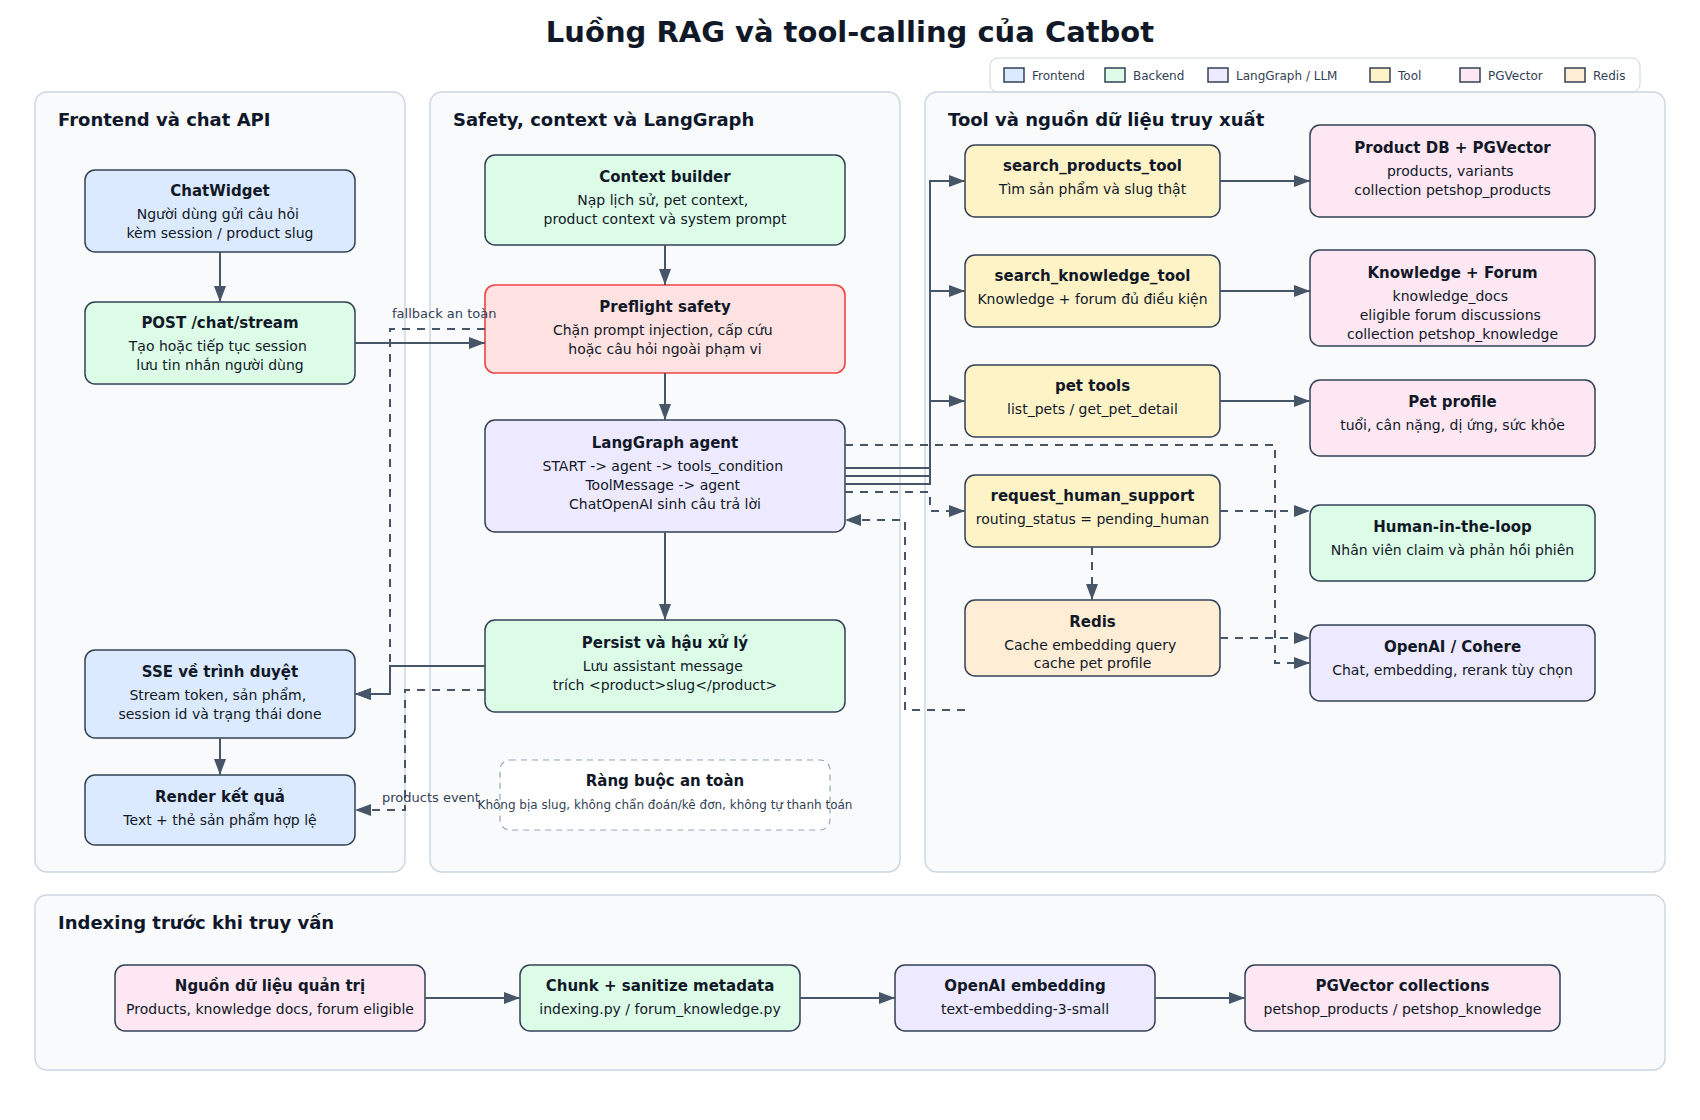
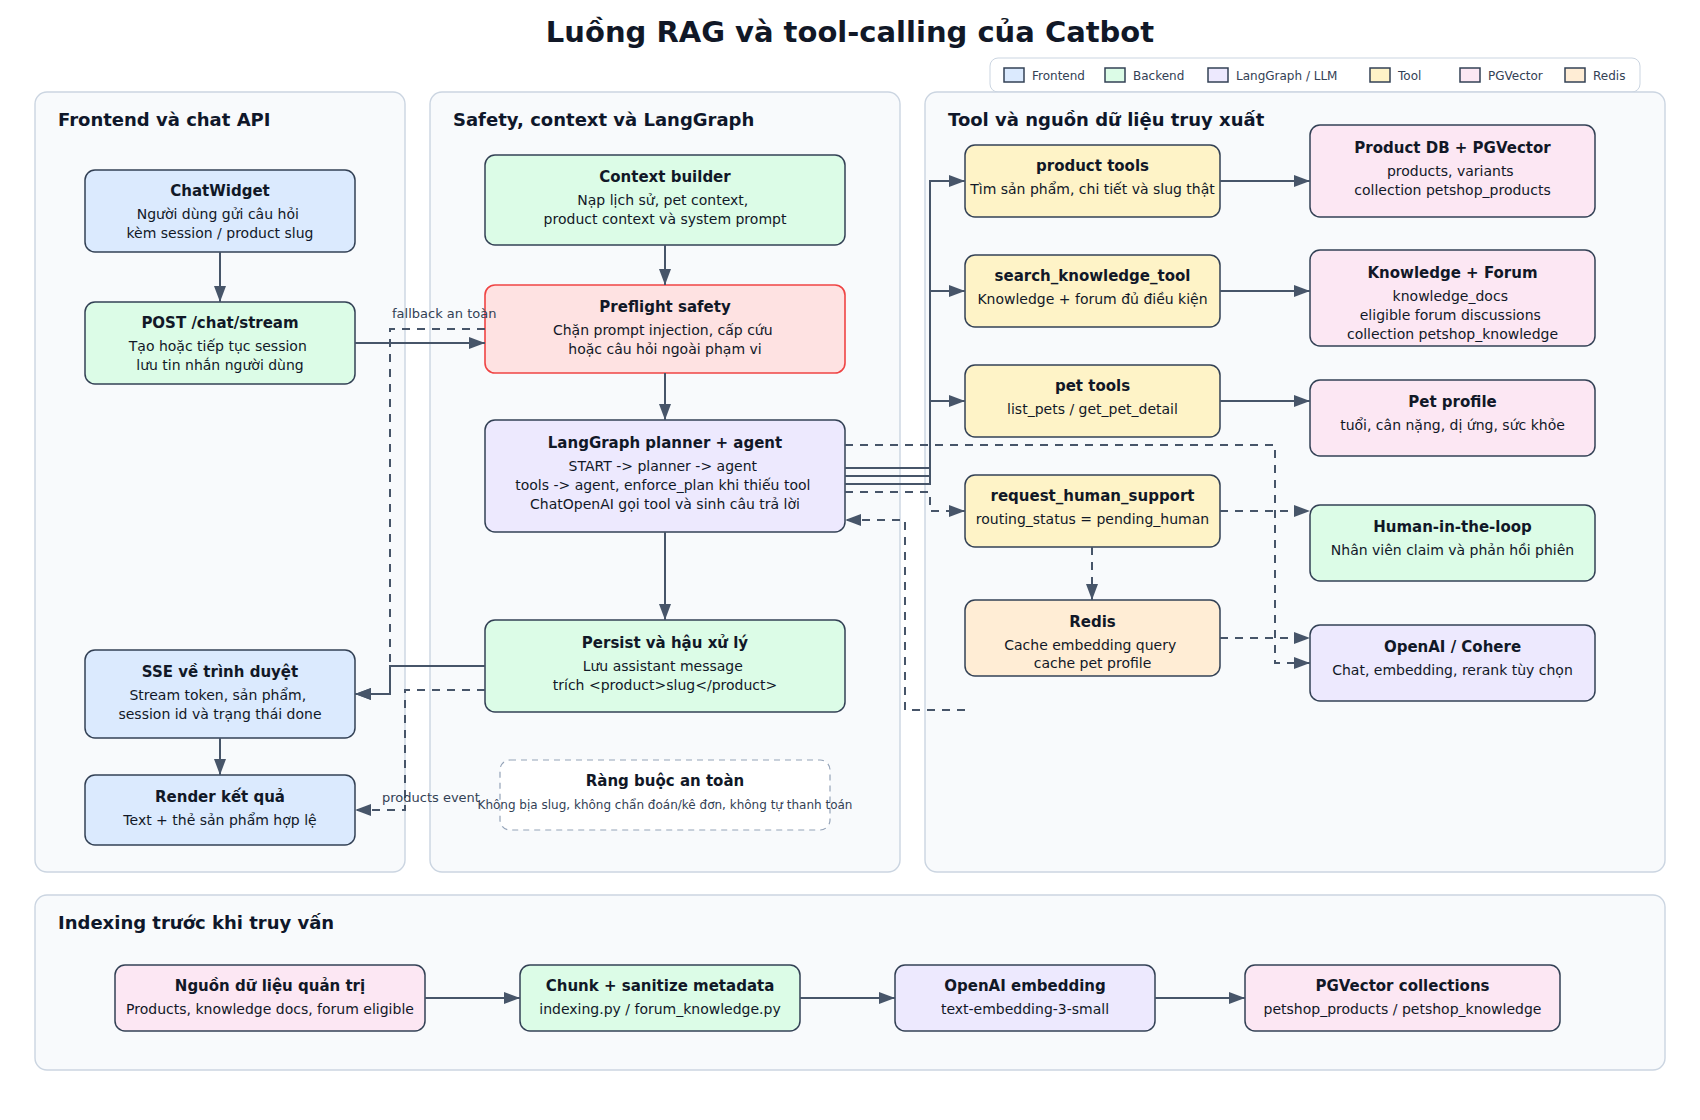
bc

Changed region(s): [[0.3118, 0.375, 0.4676, 0.4688], [0.5612, 0.125, 0.7171, 0.1875]]

diff --git a/BCDA/Chuong/1_Gioi_thieu.tex b/BCDA/Chuong/1_Gioi_thieu.tex
@@ -19,7 +19,7 @@ Những vấn đề nêu trên nếu được giải quyết triệt để sẽ 
 
 Qua khảo sát, các sản phẩm thương mại điện tử petshop hiện có tại thị trường Việt Nam hầu hết chỉ tập trung vào chức năng mua bán trực tuyến đơn thuần. Mặc dù một số hệ thống có tích hợp các chuyên mục chia sẻ kiến thức cẩm nang, các bài viết này chủ yếu tồn tại dưới dạng thông tin tĩnh, thiếu khả năng tương tác trực tiếp và khó cá nhân hóa theo thể trạng của từng vật nuôi. Các công cụ tìm kiếm sản phẩm trên nhiều hệ thống hiện tại cũng thiên về từ khóa đơn giản, chưa khai thác tốt ngữ nghĩa câu hỏi hoặc ngữ cảnh cụ thể của khách hàng, gây ra nhiều khó khăn trong việc lựa chọn sản phẩm phù hợp với nhu cầu thực tế.
 
-Dựa trên các phân tích và đánh giá ở trên, đồ án khái quát lại những hạn chế cốt lõi bao gồm sự thiếu hụt tính cá nhân hóa trong tư vấn sản phẩm, nguy cơ mua nhầm sản phẩm chứa thành phần dị ứng với thể trạng thú cưng, sự nhiễu loạn thông tin trên các diễn đàn tự phát và độ trễ lớn trong khâu hỗ trợ khách hàng khi gặp sự cố sức khỏe vật nuôi. Trên cơ sở đó, đồ án hướng tới mục tiêu thiết kế và xây dựng hệ thống thương mại điện tử chuyên biệt mang tên ThePawsome, tích hợp trợ lý ảo thông minh sử dụng kiến trúc RAG và diễn đàn cộng đồng tương tác được kiểm chứng bởi chuyên gia y tế thú y. Hệ thống được phát triển với các nhóm chức năng chính bao gồm quản lý tài khoản và phân quyền, quản lý hồ sơ thú cưng chi tiết làm cơ sở cá nhân hóa, hệ thống danh mục sản phẩm biến thể phức tạp, quy trình giỏ hàng và đặt hàng an toàn kết hợp giữ kho tạm thời cùng thanh toán trực tuyến, diễn đàn thảo luận được xác thực và trợ lý ảo Catbot hỗ trợ thời gian thực có khả năng tự động chuyển giao cuộc trò chuyện sang tư vấn viên là con người.
+Dựa trên các phân tích và đánh giá ở trên, đồ án khái quát lại những hạn chế cốt lõi bao gồm sự thiếu hụt tính cá nhân hóa trong tư vấn sản phẩm, nguy cơ mua nhầm sản phẩm chứa thành phần dị ứng với thể trạng thú cưng, sự nhiễu loạn thông tin trên các diễn đàn tự phát và độ trễ lớn trong khâu hỗ trợ khách hàng khi gặp sự cố sức khỏe vật nuôi. Trên cơ sở đó, đồ án hướng tới mục tiêu thiết kế và xây dựng hệ thống thương mại điện tử chuyên biệt mang tên ThePawsome, tích hợp trợ lý ảo thông minh sử dụng kiến trúc RAG, agent tool-calling có planner và diễn đàn cộng đồng tương tác được kiểm chứng bởi chuyên gia y tế thú y. Hệ thống được phát triển với các nhóm chức năng chính bao gồm quản lý tài khoản và phân quyền, quản lý hồ sơ thú cưng chi tiết làm cơ sở cá nhân hóa, hệ thống danh mục sản phẩm biến thể phức tạp, quy trình giỏ hàng và đặt hàng an toàn kết hợp giữ kho tạm thời cùng thanh toán trực tuyến, diễn đàn thảo luận được xác thực và trợ lý ảo Catbot hỗ trợ thời gian thực có khả năng tự động chuyển giao cuộc trò chuyện sang tư vấn viên là con người.
 
 Trong phần này, phạm vi nghiên cứu công nghệ của đồ án được giới hạn trong việc ứng dụng mô hình ngôn ngữ lớn kết hợp kiến trúc RAG dựa trên cơ sở dữ liệu vector PostgreSQL và phần mở rộng pgvector. Đồ án cũng tập trung nghiên cứu mô hình tìm kiếm lai Hybrid Search trộn điểm bằng thuật toán Reciprocal Rank Fusion, thiết lập hệ thống quản lý hội thoại đa tác vụ phức tạp sử dụng LangGraph, và áp dụng cơ chế bộ đệm Redis để tối ưu hóa hiệu năng phản hồi hệ thống dưới mức giới hạn cho phép.
 
@@ -28,9 +28,9 @@ Trong phần này, phạm vi nghiên cứu công nghệ của đồ án được
 
 Từ việc xác định rõ nhiệm vụ cần giải quyết ở phần \ref{section:1.2}, đồ án đề xuất định hướng giải pháp của mình theo trình tự khoa học cụ thể. Trước tiên, đồ án lựa chọn giải quyết vấn đề theo định hướng kiến trúc ứng dụng web phân tách rõ ràng giữa lớp giao diện Frontend và lớp xử lý Backend thông qua hệ thống RESTful API, kết hợp với các kỹ thuật trí tuệ nhân tạo hiện đại.
 
-Tiếp theo, giải pháp kỹ thuật cụ thể của hệ thống được mô tả ngắn gọn thông qua sự kết hợp đồng bộ của các công nghệ cốt lõi. Lớp Backend được xây dựng trên ngôn ngữ Python với framework FastAPI và hệ quản trị cơ sở dữ liệu PostgreSQL tích hợp tiện ích pgvector, kết hợp Redis làm bộ nhớ đệm. Lớp Frontend sử dụng framework Next.js 16 kết hợp TypeScript và Tailwind CSS để tối ưu hóa giao diện Single Page Application. Trợ lý ảo Catbot được vận hành dựa trên các mô hình ngôn ngữ lớn của OpenAI kết hợp với LangGraph để quản lý luồng hội thoại và Cohere Rerank để tối ưu hóa kết quả tìm kiếm ngữ nghĩa.
+Tiếp theo, giải pháp kỹ thuật cụ thể của hệ thống được mô tả ngắn gọn thông qua sự kết hợp đồng bộ của các công nghệ cốt lõi. Lớp Backend được xây dựng trên ngôn ngữ Python với framework FastAPI và hệ quản trị cơ sở dữ liệu PostgreSQL tích hợp tiện ích pgvector, kết hợp Redis làm bộ nhớ đệm. Lớp Frontend sử dụng framework Next.js 16 kết hợp TypeScript và Tailwind CSS để tối ưu hóa giao diện Single Page Application. Trợ lý ảo Catbot được vận hành dựa trên các mô hình ngôn ngữ lớn của OpenAI kết hợp với LangGraph để quản lý luồng hội thoại, lập kế hoạch tool-call và Cohere Rerank tùy chọn để tối ưu hóa kết quả tìm kiếm ngữ nghĩa.
 
-Sau cùng, đóng góp chính và kết quả đạt được của đồ án tập trung vào ba giải pháp cốt lõi mang tính thực tiễn cao. Đóng góp thứ nhất là giải pháp RAG nâng cao có khả năng truy xuất hồ sơ sức khỏe thú cưng (Pet Profile) để đưa ra các tư vấn dinh dưỡng cá nhân hóa và cảnh báo dị ứng khi dữ liệu đầu vào cho phép. Đóng góp thứ hai là thiết kế cơ chế chuyển giao linh hoạt giữa AI và con người (Human-in-the-loop), định tuyến từ Catbot sang nhân viên hỗ trợ khi người dùng yêu cầu gặp người thật, có dấu hiệu bức xúc hoặc câu hỏi vượt quá phạm vi tư vấn an toàn. Đóng góp thứ ba là triển khai quy trình giao dịch thương mại điện tử an toàn bằng khóa dòng dữ liệu bi quan (\texttt{SELECT FOR UPDATE}), khóa idempotency chống tạo đơn trùng và thanh toán QR qua SePay. Với đơn SePay, hệ thống tạo mã QR có thời hạn thanh toán 15 phút và reservation tồn kho có thêm khoảng grace 5 phút để worker có thể giải phóng hàng khi thanh toán quá hạn.
+Sau cùng, đóng góp chính và kết quả đạt được của đồ án tập trung vào ba giải pháp cốt lõi mang tính thực tiễn cao. Đóng góp thứ nhất là giải pháp Catbot RAG có planner tool-routing, có khả năng truy xuất hồ sơ sức khỏe thú cưng (Pet Profile), sản phẩm thật và kho tri thức để đưa ra các tư vấn cá nhân hóa và cảnh báo dị ứng khi dữ liệu đầu vào cho phép. Đóng góp thứ hai là thiết kế cơ chế chuyển giao linh hoạt giữa AI và con người (Human-in-the-loop), định tuyến từ Catbot sang nhân viên hỗ trợ khi người dùng yêu cầu gặp người thật, có dấu hiệu bức xúc hoặc câu hỏi vượt quá phạm vi tư vấn an toàn. Đóng góp thứ ba là triển khai quy trình giao dịch thương mại điện tử an toàn bằng khóa dòng dữ liệu bi quan (\texttt{SELECT FOR UPDATE}), khóa idempotency chống tạo đơn trùng và thanh toán QR qua SePay. Với đơn SePay, hệ thống tạo mã QR có thời hạn thanh toán 15 phút và reservation tồn kho có thêm khoảng grace 5 phút để worker có thể giải phóng hàng khi thanh toán quá hạn.
 
 \section{Bố cục đồ án}
 \label{section:1.4}
@@ -43,7 +43,7 @@ Chương 3 giới thiệu chi tiết về nền tảng lý thuyết và công ng
 
 Chương 4 tập trung vào phần phân tích thiết kế, triển khai thực tế và đánh giá hiệu năng hệ thống. Chương này mô tả thiết kế kiến trúc phần mềm phân tầng thông qua biểu đồ gói UML, thiết kế chi tiết cơ sở dữ liệu quan hệ với sơ đồ thực thể liên kết ERD gồm 28 bảng dữ liệu chuẩn hóa, và thiết kế chi tiết các lớp đối tượng tham gia xử lý các nghiệp vụ quan trọng bằng biểu đồ trình tự. Kết quả xây dựng ứng dụng cũng được thống kê chi tiết về số lượng dòng code, cấu trúc mã nguồn và đánh giá thực nghiệm hiệu năng phản hồi của hệ thống.
 
-Chương 5 trình bày sâu về các giải pháp kỹ thuật và đóng góp nổi bật của đồ án. Chương này phân tích chi tiết nguyên lý thiết kế và thuật toán triển khai của các giải pháp cốt lõi bao gồm: kiến trúc RAG tích hợp Pet Profile để tư vấn cá nhân hóa, cơ chế tìm kiếm lai kết hợp RRF và rerank tùy chọn, cơ chế giữ kho an toàn bằng khóa dòng dữ liệu bi quan, giải pháp thanh toán QR SePay kết hợp webhook, và quy trình chuyển giao hội thoại từ AI sang nhân viên hỗ trợ.
+Chương 5 trình bày sâu về các giải pháp kỹ thuật và đóng góp nổi bật của đồ án. Chương này phân tích chi tiết nguyên lý thiết kế và thuật toán triển khai của các giải pháp cốt lõi bao gồm: kiến trúc Catbot RAG tích hợp planner tool-routing và Pet Profile để tư vấn cá nhân hóa, cơ chế tìm kiếm lai kết hợp RRF và rerank tùy chọn, cơ chế giữ kho an toàn bằng khóa dòng dữ liệu bi quan, giải pháp thanh toán QR SePay kết hợp webhook, và quy trình chuyển giao hội thoại từ AI sang nhân viên hỗ trợ.
 
 Chương 6 đưa ra các kết luận tổng quan và định hướng phát triển của đề tài trong tương lai. Chương này đánh giá khách quan các kết quả đạt được của sản phẩm so với mục tiêu ban đầu và so với các giải pháp hiện có trên thị trường, thẳng thắn nhìn nhận những mặt còn hạn chế, rút ra những bài học kinh nghiệm trong quá trình thiết kế hệ thống và đề xuất lộ trình nâng cấp các tính năng thông minh trong các giai đoạn tiếp theo.
 

diff --git a/BCDA/Chuong/3_Cong_nghe.tex b/BCDA/Chuong/3_Cong_nghe.tex
@@ -43,9 +43,9 @@ Cohere Rerank là thành phần tùy chọn. Tài liệu Cohere mô tả Rerank 
 \section{LangGraph tool-calling và an toàn AI}
 \label{section:3.4}
 
-Catbot được triển khai bằng LangGraph. Tài liệu LangGraph mô tả framework này như một lớp orchestration để xây dựng agent có trạng thái, workflow dài và khả năng gọi tool \cite{langgraphDocs}. Trong ThePawsome, graph đơn giản gồm node agent và node tools, lặp theo điều kiện \texttt{tools\_condition}. Agent không được tự ý bịa dữ liệu sản phẩm; khi muốn giới thiệu sản phẩm, nó phải gọi tool tìm sản phẩm và chỉ render thẻ \texttt{\textless product\textgreater slug\textless/product\textgreater} với slug có thật trong kết quả tool.
+Catbot được triển khai bằng LangGraph. Tài liệu LangGraph mô tả framework này như một lớp orchestration để xây dựng agent có trạng thái, workflow dài và khả năng gọi tool \cite{langgraphDocs}. Trong ThePawsome, graph gồm node planner, node agent và node tools. Planner là một LLM chạy ở nhiệt độ thấp, sinh ra \texttt{ToolRoutingPlan} có cấu trúc để chỉ ra các tool cần gọi cho lượt hỏi hiện tại. Sau đó agent thực hiện tool-calling; nếu agent chuẩn bị trả lời trong khi còn thiếu tool đã được planner yêu cầu, graph đưa thêm một thông điệp nhắc hoàn tất kế hoạch rồi quay lại agent. Agent không được tự ý bịa dữ liệu sản phẩm; khi muốn giới thiệu sản phẩm, nó phải gọi tool tìm sản phẩm và chỉ render thẻ \texttt{\textless product\textgreater slug\textless/product\textgreater} với slug có thật trong kết quả tool.
 
-Hình \ref{fig:3.1} mô tả luồng RAG và tool-calling của Catbot theo mã nguồn hiện tại. Người dùng gửi câu hỏi từ widget chat; backend chạy bước kiểm tra an toàn sơ bộ; LangGraph agent quyết định gọi tool sản phẩm, tool knowledge/forum, tool hồ sơ thú cưng hoặc tool chuyển giao người thật; phản hồi được stream về frontend bằng SSE.
+Hình \ref{fig:3.1} mô tả luồng RAG và tool-calling của Catbot theo mã nguồn hiện tại. Người dùng gửi câu hỏi từ widget chat; backend chạy bước kiểm tra an toàn sơ bộ; planner lập kế hoạch tool-call; LangGraph agent gọi tool sản phẩm, tool knowledge/forum, tool hồ sơ thú cưng hoặc tool chuyển giao người thật; phản hồi được stream về frontend bằng SSE.
 
 \begin{figure}[H]
 \centering
@@ -56,7 +56,7 @@ Hình \ref{fig:3.1} mô tả luồng RAG và tool-calling của Catbot theo mã 
 
 Server-Sent Events được dùng để stream phản hồi từng phần từ backend tới trình duyệt. Thư viện \texttt{sse-starlette} cung cấp triển khai SSE cho Starlette/FastAPI \cite{sseStarletteDocs}. Trong router chat, producer agent chạy trong một task độc lập và đưa sự kiện vào queue, còn generator SSE chỉ đọc queue để trả về client. Thiết kế này giúp kết quả vẫn được lưu xuống CSDL nếu client ngắt kết nối giữa chừng.
 
-An toàn AI được xử lý ở nhiều lớp. Lớp thứ nhất là \texttt{preflight\_safety\_response()} trong \texttt{backend/app/services/ai\_safety.py}, phát hiện prompt injection và dấu hiệu cấp cứu thú y để trả lời fallback trước khi gọi LLM. Lớp thứ hai là prompt hệ thống quy định Catbot không chẩn đoán, không kê đơn, không tiết lộ secret và không làm theo chỉ dẫn nằm trong tài liệu truy xuất. Lớp thứ ba là \texttt{sanitize\_retrieved\_content()}, loại bỏ các dòng giống chỉ dẫn hệ thống trong nội dung retrieval trước khi đưa vào context.
+An toàn AI được xử lý ở nhiều lớp. Lớp thứ nhất là \texttt{preflight\_safety\_response()} trong \texttt{backend/app/services/ai\_safety.py}, phát hiện prompt injection, dấu hiệu cấp cứu thú y và yêu cầu chẩn đoán hoặc liều thuốc cụ thể để trả lời fallback trước khi gọi LLM. Lớp thứ hai là prompt hệ thống và planner tool-routing, quy định Catbot không chẩn đoán, không kê đơn, không tiết lộ secret, chọn đúng tool theo ngữ nghĩa và không làm theo chỉ dẫn nằm trong tài liệu truy xuất. Lớp thứ ba là \texttt{sanitize\_retrieved\_content()}, loại bỏ các dòng giống chỉ dẫn hệ thống trong nội dung retrieval trước khi đưa vào context.
 
 \section{Xác thực, phân quyền và giao dịch thương mại điện tử}
 \label{section:3.5}
@@ -87,7 +87,7 @@ Next.js App Router & Giao diện storefront, auth, admin và routing theo layout
 PostgreSQL + SQLAlchemy async & Dữ liệu quan hệ, transaction, khóa dòng và migration. & MySQL, MongoDB, Firebase. & Cần toàn vẹn giao dịch cao và có thể mở rộng bằng pgvector. \\ \hline
 pgvector & Lưu và tìm kiếm embedding sản phẩm/knowledge. & Pinecone, Milvus, Weaviate, Elasticsearch vector. & Giảm độ phức tạp triển khai, tận dụng cùng PostgreSQL. \\ \hline
 Redis & Cache embedding, pet profile, rate limit và dữ liệu TTL. & In-memory process cache, Memcached. & Có TTL chuẩn, dùng chung được cho nhiều instance backend. \\ \hline
-LangGraph & Orchestration agent có trạng thái và tool-calling. & Chain tuyến tính, function-calling tự quản lý. & Phù hợp luồng agent cần gọi nhiều tool và chuyển giao người thật. \\ \hline
+LangGraph & Orchestration agent có trạng thái, planner node và tool-calling. & Chain tuyến tính, function-calling tự quản lý. & Phù hợp luồng agent cần lập kế hoạch tool, gọi nhiều tool và chuyển giao người thật. \\ \hline
 SePay VietQR & Thanh toán chuyển khoản QR và webhook. & MoMo, Stripe. & Phù hợp bối cảnh Việt Nam, dễ tích hợp QR chuyển khoản và đối soát webhook trong phạm vi đồ án. \\ \hline
 Cloudinary & Lưu ảnh sản phẩm, banner và avatar thú cưng. & Lưu file local, S3. & Có API upload và URL ảnh ổn định cho frontend \cite{cloudinaryUploadDocs}. \\ \hline
 \end{tabularx}

diff --git a/BCDA/Chuong/5_Giai_phap_dong_gop.tex b/BCDA/Chuong/5_Giai_phap_dong_gop.tex
@@ -14,11 +14,11 @@ Trong website petshop thông thường, chatbot nếu có thường trả lời 
 \subsection{Giải pháp}
 \label{subsection:5.1.2}
 
-Đồ án triển khai Catbot theo hướng RAG có kiểm soát bằng LangGraph. Mỗi request chat đi qua router \texttt{/api/v1/chat/stream}. Backend nạp lịch sử hội thoại, pet context nếu người dùng chọn hồ sơ thú cưng, product context nếu người dùng đang xem một sản phẩm, sau đó tạo system prompt bằng \texttt{build\_system\_prompt()}. Agent có các tool chính gồm \texttt{search\_products\_tool}, \texttt{search\_knowledge\_tool}, \texttt{list\_pets\_tool}, \texttt{get\_pet\_detail\_tool} và \texttt{request\_human\_support\_tool}.
+Đồ án triển khai Catbot theo hướng RAG có kiểm soát bằng LangGraph. Mỗi request chat đi qua router \texttt{/api/v1/chat/stream}. Backend nạp lịch sử hội thoại, pet context nếu người dùng chọn hồ sơ thú cưng, product context nếu người dùng đang xem một sản phẩm, sau đó tạo system prompt bằng \texttt{build\_system\_prompt()}. Trong graph, node planner dùng LLM với structured output để sinh \texttt{ToolRoutingPlan}; node agent thực thi kế hoạch bằng tool-calling; node tools chạy các tool bất đồng bộ và trả kết quả về agent. Nếu câu trả lời cần dữ liệu nhưng agent chưa gọi đủ tool theo kế hoạch, graph nhắc agent hoàn tất tool còn thiếu trước khi trả lời cuối cùng. Agent có các tool chính gồm \texttt{search\_products\_tool}, \texttt{get\_product\_detail\_tool}, \texttt{search\_knowledge\_tool}, \texttt{list\_pets\_tool}, \texttt{get\_pet\_detail\_tool} và \texttt{request\_human\_support\_tool}.
 
-Điểm quan trọng là agent không được tự quyết định dữ liệu sản phẩm. Khi trả lời có gợi ý sản phẩm, prompt bắt buộc Catbot chỉ dùng slug có thật từ kết quả tool và render theo định dạng \texttt{\textless product\textgreater slug\textless/product\textgreater}. Backend sau đó dùng regex \texttt{PRODUCT\_TAG\_RE} để truy vấn lại các slug trong database và chỉ trả về thẻ sản phẩm hợp lệ cho frontend. Cách làm này biến LLM thành lớp diễn giải và tổng hợp, còn dữ liệu sản phẩm vẫn được kiểm chứng bằng CSDL.
+Điểm quan trọng là agent không được tự quyết định dữ liệu sản phẩm. Khi trả lời có gợi ý sản phẩm, prompt bắt buộc Catbot chỉ dùng slug có thật từ kết quả tool và render theo định dạng \texttt{\textless product\textgreater slug\textless/product\textgreater}. Với câu hỏi chỉ kiểm tra sản phẩm có bán hay không, tool tìm sản phẩm là đủ; với câu hỏi cần đánh giá độ phù hợp, thành phần, lứa tuổi hoặc dị ứng, agent cần lấy thêm chi tiết sản phẩm bằng \texttt{get\_product\_detail\_tool}. Backend sau đó dùng regex \texttt{PRODUCT\_TAG\_RE} để truy vấn lại các slug trong database và chỉ trả về thẻ sản phẩm hợp lệ cho frontend. Cách làm này biến LLM thành lớp lập kế hoạch, diễn giải và tổng hợp, còn dữ liệu sản phẩm vẫn được kiểm chứng bằng CSDL.
 
-Hồ sơ thú cưng được cache bằng Redis thông qua \texttt{get\_pet\_profile\_cached()}. Key cache bao gồm id thú cưng và hash nội dung hồ sơ, nên khi người dùng sửa tuổi, cân nặng, ghi chú sức khỏe hoặc dị ứng thì hash thay đổi và cache cũ không bị dùng nhầm. Đây là giải pháp nhỏ nhưng quan trọng để Catbot phản hồi nhanh mà vẫn giữ tính đúng đắn theo dữ liệu mới.
+Hồ sơ thú cưng được cache bằng Redis thông qua \texttt{get\_pet\_profile\_cached()}. Key cache bao gồm id thú cưng và hash nội dung hồ sơ, nên khi người dùng sửa tuổi, cân nặng, ghi chú sức khỏe hoặc dị ứng thì hash thay đổi và cache cũ không bị dùng nhầm. Bên cạnh đó, planner không hardcode tên thú cưng; nó nhận danh sách tên thú cưng của người dùng hiện tại từ CSDL để quyết định khi nào cần gọi \texttt{get\_pet\_detail\_tool} hoặc \texttt{list\_pets\_tool}. Đây là giải pháp nhỏ nhưng quan trọng để Catbot phản hồi nhanh mà vẫn giữ tính đúng đắn theo dữ liệu mới.
 
 \subsection{Kết quả đạt được}
 \label{subsection:5.1.3}

diff --git a/BCDA/Chuong/0_3_Tom_tat_noi_dung.tex b/BCDA/Chuong/0_3_Tom_tat_noi_dung.tex
@@ -7,7 +7,7 @@
 \vspace{1cm}
 Đồ án xây dựng ThePawsome, một hệ thống thương mại điện tử chuyên biệt cho sản phẩm thú cưng, kết hợp các nghiệp vụ mua bán trực tuyến với trợ lý AI tư vấn bằng tiếng Việt. Bài toán xuất phát từ thực tế người nuôi thú cưng thường phải tự lựa chọn thức ăn, phụ kiện và kiến thức chăm sóc từ nhiều nguồn phân tán, trong khi mỗi thú cưng có loài, độ tuổi, cân nặng, tình trạng sức khỏe và dị ứng khác nhau. Các website bán hàng thông thường đáp ứng tốt nhu cầu trưng bày sản phẩm và đặt hàng, nhưng còn hạn chế ở khả năng cá nhân hóa tư vấn, kiểm soát chất lượng tri thức cộng đồng và bảo đảm giao dịch an toàn khi nhiều người cùng mua một biến thể sản phẩm.
 
-Giải pháp của đồ án là thiết kế hệ thống web theo kiến trúc tách frontend/backend. Backend sử dụng FastAPI, SQLAlchemy bất đồng bộ, PostgreSQL tích hợp pgvector và Redis; frontend sử dụng Next.js App Router, TypeScript, Tailwind CSS, TanStack Query và Zustand. Trợ lý Catbot được triển khai bằng LangGraph tool-calling, truy xuất sản phẩm, kho kiến thức và thảo luận forum đã đủ điều kiện để sinh câu trả lời có căn cứ, đồng thời có cơ chế an toàn AI và chuyển giao cho nhân viên hỗ trợ. Hệ thống thương mại điện tử hỗ trợ catalog có biến thể, giỏ hàng, guest checkout, mã giảm giá, đánh giá sau mua, đổi trả, thanh toán QR qua SePay, giữ kho tạm thời và xử lý idempotency để hạn chế tạo đơn trùng. Kết quả đạt được là một monorepo có đầy đủ các phân hệ khách hàng, quản trị, diễn đàn, AI/RAG và kiểm thử backend trọng tâm, làm nền tảng để tiếp tục triển khai thực nghiệm với dữ liệu thật.
+Giải pháp của đồ án là thiết kế hệ thống web theo kiến trúc tách frontend/backend. Backend sử dụng FastAPI, SQLAlchemy bất đồng bộ, PostgreSQL tích hợp pgvector và Redis; frontend sử dụng Next.js App Router, TypeScript, Tailwind CSS, TanStack Query và Zustand. Trợ lý Catbot được triển khai bằng LangGraph tool-calling có lớp planner LLM tạo kế hoạch tool-call trước khi agent trả lời, truy xuất sản phẩm, kho kiến thức, thảo luận forum và hồ sơ thú cưng từ CSDL để sinh câu trả lời có căn cứ, đồng thời có cơ chế an toàn AI và chuyển giao cho nhân viên hỗ trợ. Hệ thống thương mại điện tử hỗ trợ catalog có biến thể, giỏ hàng, guest checkout, mã giảm giá, đánh giá sau mua, đổi trả, thanh toán QR qua SePay, giữ kho tạm thời và xử lý idempotency để hạn chế tạo đơn trùng. Kết quả đạt được là một monorepo có đầy đủ các phân hệ khách hàng, quản trị, diễn đàn, AI/RAG và kiểm thử backend trọng tâm, làm nền tảng để tiếp tục triển khai thực nghiệm với dữ liệu thật.
 \begin{flushright}
 Sinh viên thực hiện\\
 \begin{tabular}{@{}c@{}}

diff --git a/BCDA/Chuong/0_4_Tom_tat_noi_dung_English.tex b/BCDA/Chuong/0_4_Tom_tat_noi_dung_English.tex
@@ -7,6 +7,6 @@
 \vspace{1cm}
 This thesis presents ThePawsome, a pet-focused e-commerce system that combines online shopping workflows with a Vietnamese AI assistant. The problem comes from the fact that pet owners often have to choose food, accessories, and care information from fragmented sources, while each pet has different species, age, weight, health notes, and allergies. Conventional shopping websites can display products and process orders, but they provide limited personalized advice, weak reuse of trusted community knowledge, and insufficient protection against duplicated orders or overselling when many customers buy the same product variant.
 
-The proposed solution follows a separated frontend/backend web architecture. The backend is implemented with FastAPI, asynchronous SQLAlchemy, PostgreSQL with pgvector, and Redis. The frontend uses Next.js App Router, TypeScript, Tailwind CSS, TanStack Query, and Zustand. The Catbot assistant is built with LangGraph tool-calling. It retrieves real products, curated knowledge, and eligible forum discussions before generating grounded responses, while applying AI safety checks and human handoff for sensitive cases. The e-commerce workflow supports variant-based catalog management, cart, guest checkout, promotions, post-purchase reviews, returns, SePay VietQR payment, temporary inventory reservation, and idempotency handling to reduce duplicate order creation. The final result is a maintainable monorepo covering customer, admin, forum, AI/RAG, and core backend test suites, providing a practical foundation for future deployment with real operational data.
+The proposed solution follows a separated frontend/backend web architecture. The backend is implemented with FastAPI, asynchronous SQLAlchemy, PostgreSQL with pgvector, and Redis. The frontend uses Next.js App Router, TypeScript, Tailwind CSS, TanStack Query, and Zustand. The Catbot assistant is built with LangGraph tool-calling and an LLM planner that produces a structured tool plan before the answering agent runs. It retrieves real products, curated knowledge, eligible forum discussions, and pet profiles from the database before generating grounded responses, while applying AI safety checks and human handoff for sensitive cases. The e-commerce workflow supports variant-based catalog management, cart, guest checkout, promotions, post-purchase reviews, returns, SePay VietQR payment, temporary inventory reservation, and idempotency handling to reduce duplicate order creation. The final result is a maintainable monorepo covering customer, admin, forum, AI/RAG, and core backend test suites, providing a practical foundation for future deployment with real operational data.
 
 \end{document}

diff --git a/BCDA/Chuong/0_6_Thuat_ngu.tex b/BCDA/Chuong/0_6_Thuat_ngu.tex
@@ -3,7 +3,7 @@
 \begin{longtable}{l p{14cm}}
 	\hline
    \textbf{Thuật ngữ}  & \textbf{Ý nghĩa} \\ \hline
-	\textbf{Catbot} & Trợ lý AI của ThePawsome, dùng LangGraph tool-calling để tư vấn sản phẩm và kiến thức chăm sóc thú cưng bằng tiếng Việt. \\
+	\textbf{Catbot} & Trợ lý AI của ThePawsome, dùng LangGraph tool-calling và planner LLM để tư vấn sản phẩm, kiến thức chăm sóc thú cưng và hồ sơ thú cưng bằng tiếng Việt. \\
 	\textbf{Guest checkout} & Quy trình cho phép khách chưa đăng nhập tạo đơn hàng và tra cứu đơn bằng email, mã đơn hoặc token khách. \\
 	\textbf{Hybrid search} & Cách tìm kiếm kết hợp thứ hạng từ khóa và thứ hạng ngữ nghĩa, sau đó trộn kết quả bằng RRF. \\
 	\textbf{Idempotency key} & Khóa định danh một yêu cầu nghiệp vụ để tránh tạo lặp đơn hàng hoặc payment khi người dùng gửi lại cùng request. \\

diff --git a/BCDA/Chuong/6_Ket_luan.tex b/BCDA/Chuong/6_Ket_luan.tex
@@ -7,7 +7,7 @@
 
 Về mặt kỹ thuật, backend đã được tổ chức theo các tầng rõ ràng với FastAPI, SQLAlchemy bất đồng bộ, PostgreSQL/pgvector, Redis và Alembic migration. Frontend đã có cấu trúc Next.js App Router cho storefront, auth và admin dashboard. CSDL nghiệp vụ có 28 bảng, bao phủ user, pet, catalog, commerce, forum, chat, knowledge, review, wishlist, audit và AI observability. Bộ test backend hiện có 123 test case trong 22 file, bao phủ nhiều luồng quan trọng như auth, cart, orders, payments, forum, chat, AI safety và hardening.
 
-Các đóng góp nổi bật của đồ án gồm: (i) Catbot RAG có khả năng truy xuất sản phẩm thật, kho tri thức, forum đủ điều kiện và hồ sơ thú cưng; (ii) tìm kiếm lai kết hợp keyword, semantic search, RRF và rerank tùy chọn; (iii) governance cho dữ liệu forum trước khi đưa vào RAG; (iv) checkout có idempotency, khóa dòng và reservation; (v) thanh toán SePay VietQR với webhook xác thực; và (vi) cơ chế HITL để chuyển phiên chat sang nhân viên hỗ trợ khi AI không nên tự xử lý.
+Các đóng góp nổi bật của đồ án gồm: (i) Catbot RAG có planner tool-routing và khả năng truy xuất sản phẩm thật, kho tri thức, forum đủ điều kiện và hồ sơ thú cưng; (ii) tìm kiếm lai kết hợp keyword, semantic search, RRF và rerank tùy chọn; (iii) governance cho dữ liệu forum trước khi đưa vào RAG; (iv) checkout có idempotency, khóa dòng và reservation; (v) thanh toán SePay VietQR với webhook xác thực; và (vi) cơ chế HITL để chuyển phiên chat sang nhân viên hỗ trợ khi AI không nên tự xử lý.
 
 Bên cạnh kết quả đạt được, hệ thống vẫn còn một số hạn chế. Thứ nhất, chất lượng tư vấn AI phụ thuộc vào độ đầy đủ của dữ liệu sản phẩm, tài liệu knowledge, forum và cấu hình API key. Thứ hai, frontend chưa có bộ kiểm thử component hoặc e2e, nên các luồng UI như checkout, SePay polling, Catbot streaming và admin form cần được kiểm thử tự động thêm. Thứ ba, hệ thống mới được đánh giá ở quy mô đồ án, chưa có dữ liệu vận hành lớn để đánh giá tải, độ chính xác tư vấn và chi phí AI trong thời gian dài.
 